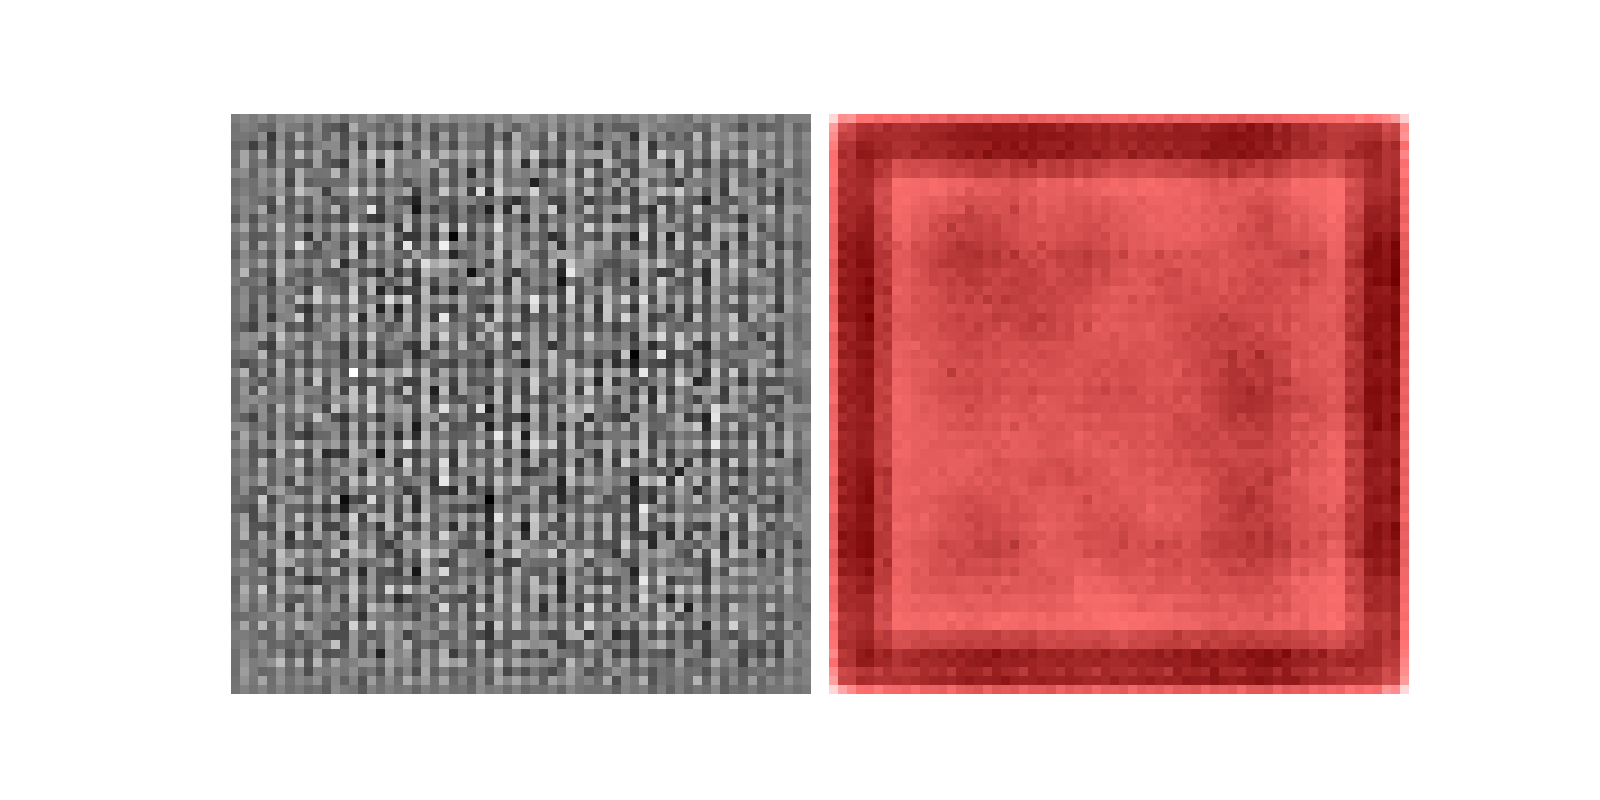
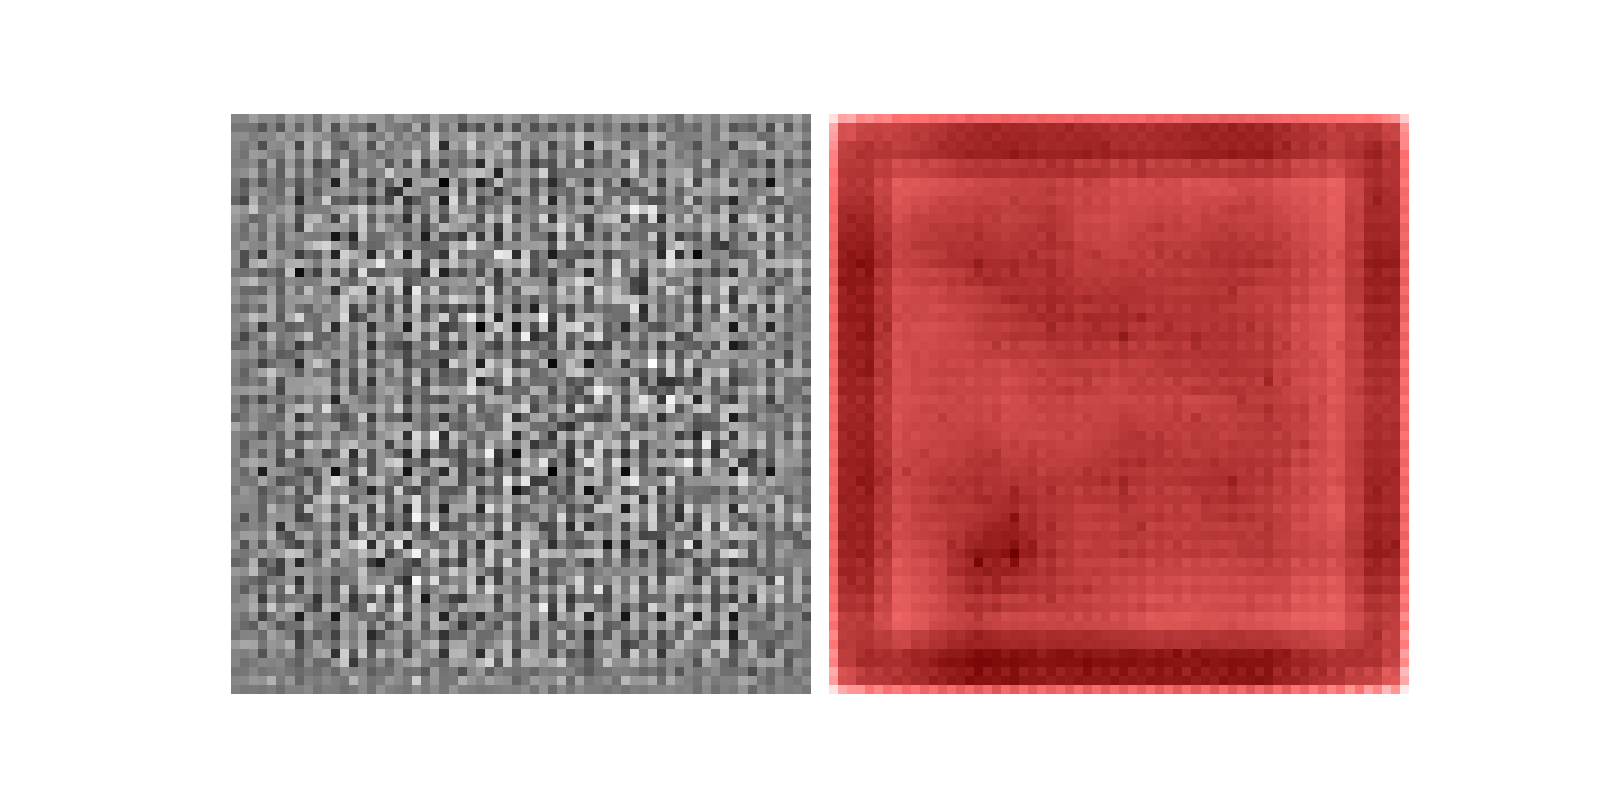
Added beta parameter

diff --git a/DCGAN.py b/DCGAN.py
@@ -31,6 +31,7 @@ parser.add_argument('--imageSize', type=int, default=64)
 parser.add_argument('--loadG', default='', help='path to generator (to continue training')
 parser.add_argument('--loadD', default='', help='path to discriminator (to continue training')
 parser.add_argument('--alpha', default=1, type=int)
+parser.add_argument('--beta', default=None, type=int)
 
 opt = parser.parse_args()
 outf = '{}/{}'.format(opt.outf, os.path.splitext(os.path.basename(sys.argv[0]))[0])
@@ -40,6 +41,10 @@ ngf = int(opt.ngf)
 ndf = int(opt.ndf)
 nz = int(opt.nz)
 alpha = int(opt.alpha)
+if opt.beta is not None:
+    beta = int(opt.beta)
+else:
+    beta = opt.beta
 print(opt)
 
 try:
@@ -171,19 +176,19 @@ class DiscriminatorNet(nn.Module):
             ),
             # state size. (ndf) x 32 x 32
             nnrd.Layer(
-                nnrd.NextConvolution(ndf, ndf * 2, 4, '1', 2, 1, alpha=alpha),
+                nnrd.NextConvolution(ndf, ndf * 2, 4, '1', 2, 1, alpha=alpha, beta=beta),
                 nnrd.BatchNorm2d(ndf * 2),
                 nnrd.ReLu(),
             ),
             # state size. (ndf*2) x 16 x 16
             nnrd.Layer(
-                nnrd.NextConvolution(ndf * 2, ndf * 4, 4, '2', 2, 1, alpha=alpha),
+                nnrd.NextConvolution(ndf * 2, ndf * 4, 4, '2', 2, 1, alpha=alpha, beta=beta),
                 nnrd.BatchNorm2d(ndf * 4),
                 nnrd.ReLu(),
             ),
             # state size. (ndf*4) x 8 x 8
             nnrd.Layer(
-                nnrd.NextConvolution(ndf * 4, ndf * 8, 4, '3', 2, 1, alpha=alpha),
+                nnrd.NextConvolution(ndf * 4, ndf * 8, 4, '3', 2, 1, alpha=alpha,  beta=beta),
                 nnrd.BatchNorm2d(ndf * 8),
                 nnrd.ReLu(),
             ),

diff --git a/modules/ModuleRedefinitions.py b/modules/ModuleRedefinitions.py
@@ -144,14 +144,17 @@ class FirstConvolution(nn.Conv2d):
 class NextConvolution(nn.Conv2d):
 
     def __init__(self, in_channels, out_channels, kernel_size, name, stride=1, padding=2, dilation=1, groups=1,
-                 bias=True, alpha=1):
+                 bias=True, alpha=1, beta=None):
         super().__init__(in_channels, out_channels, kernel_size, stride, padding, dilation, groups, bias)
 
         self.name = name
         # Variables for Relevance Propagation
         self.X = None
         self.alpha = alpha
-        self.beta = alpha - 1
+        if beta is None:
+            self.beta = alpha - 1
+        else:
+            self.beta = beta
 
     def forward(self, input):
         # Input shape: minibatch x in_channels, iH x iW
